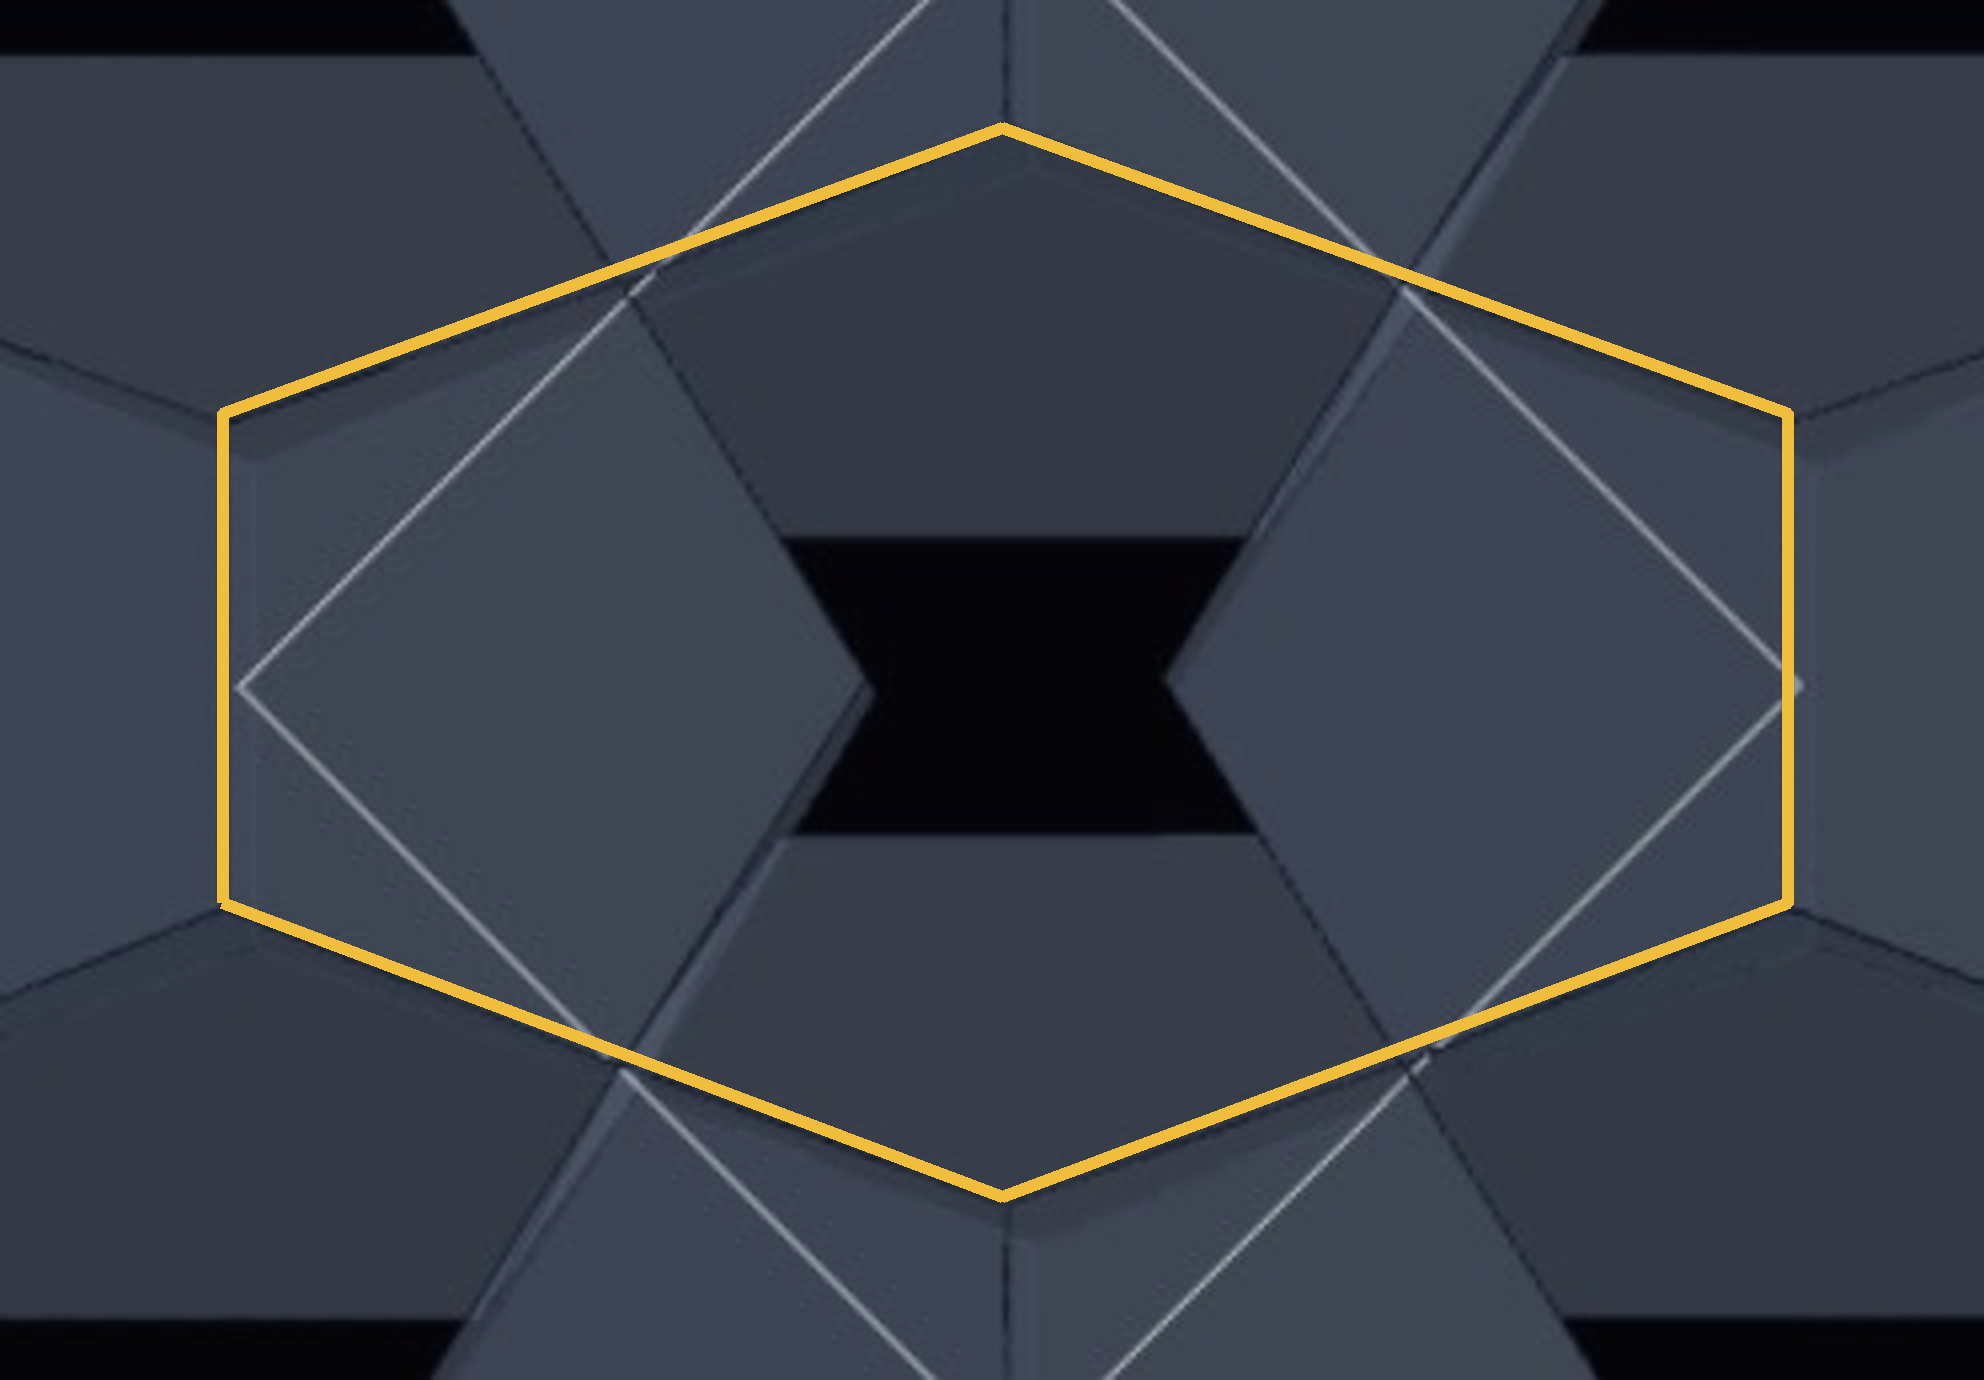
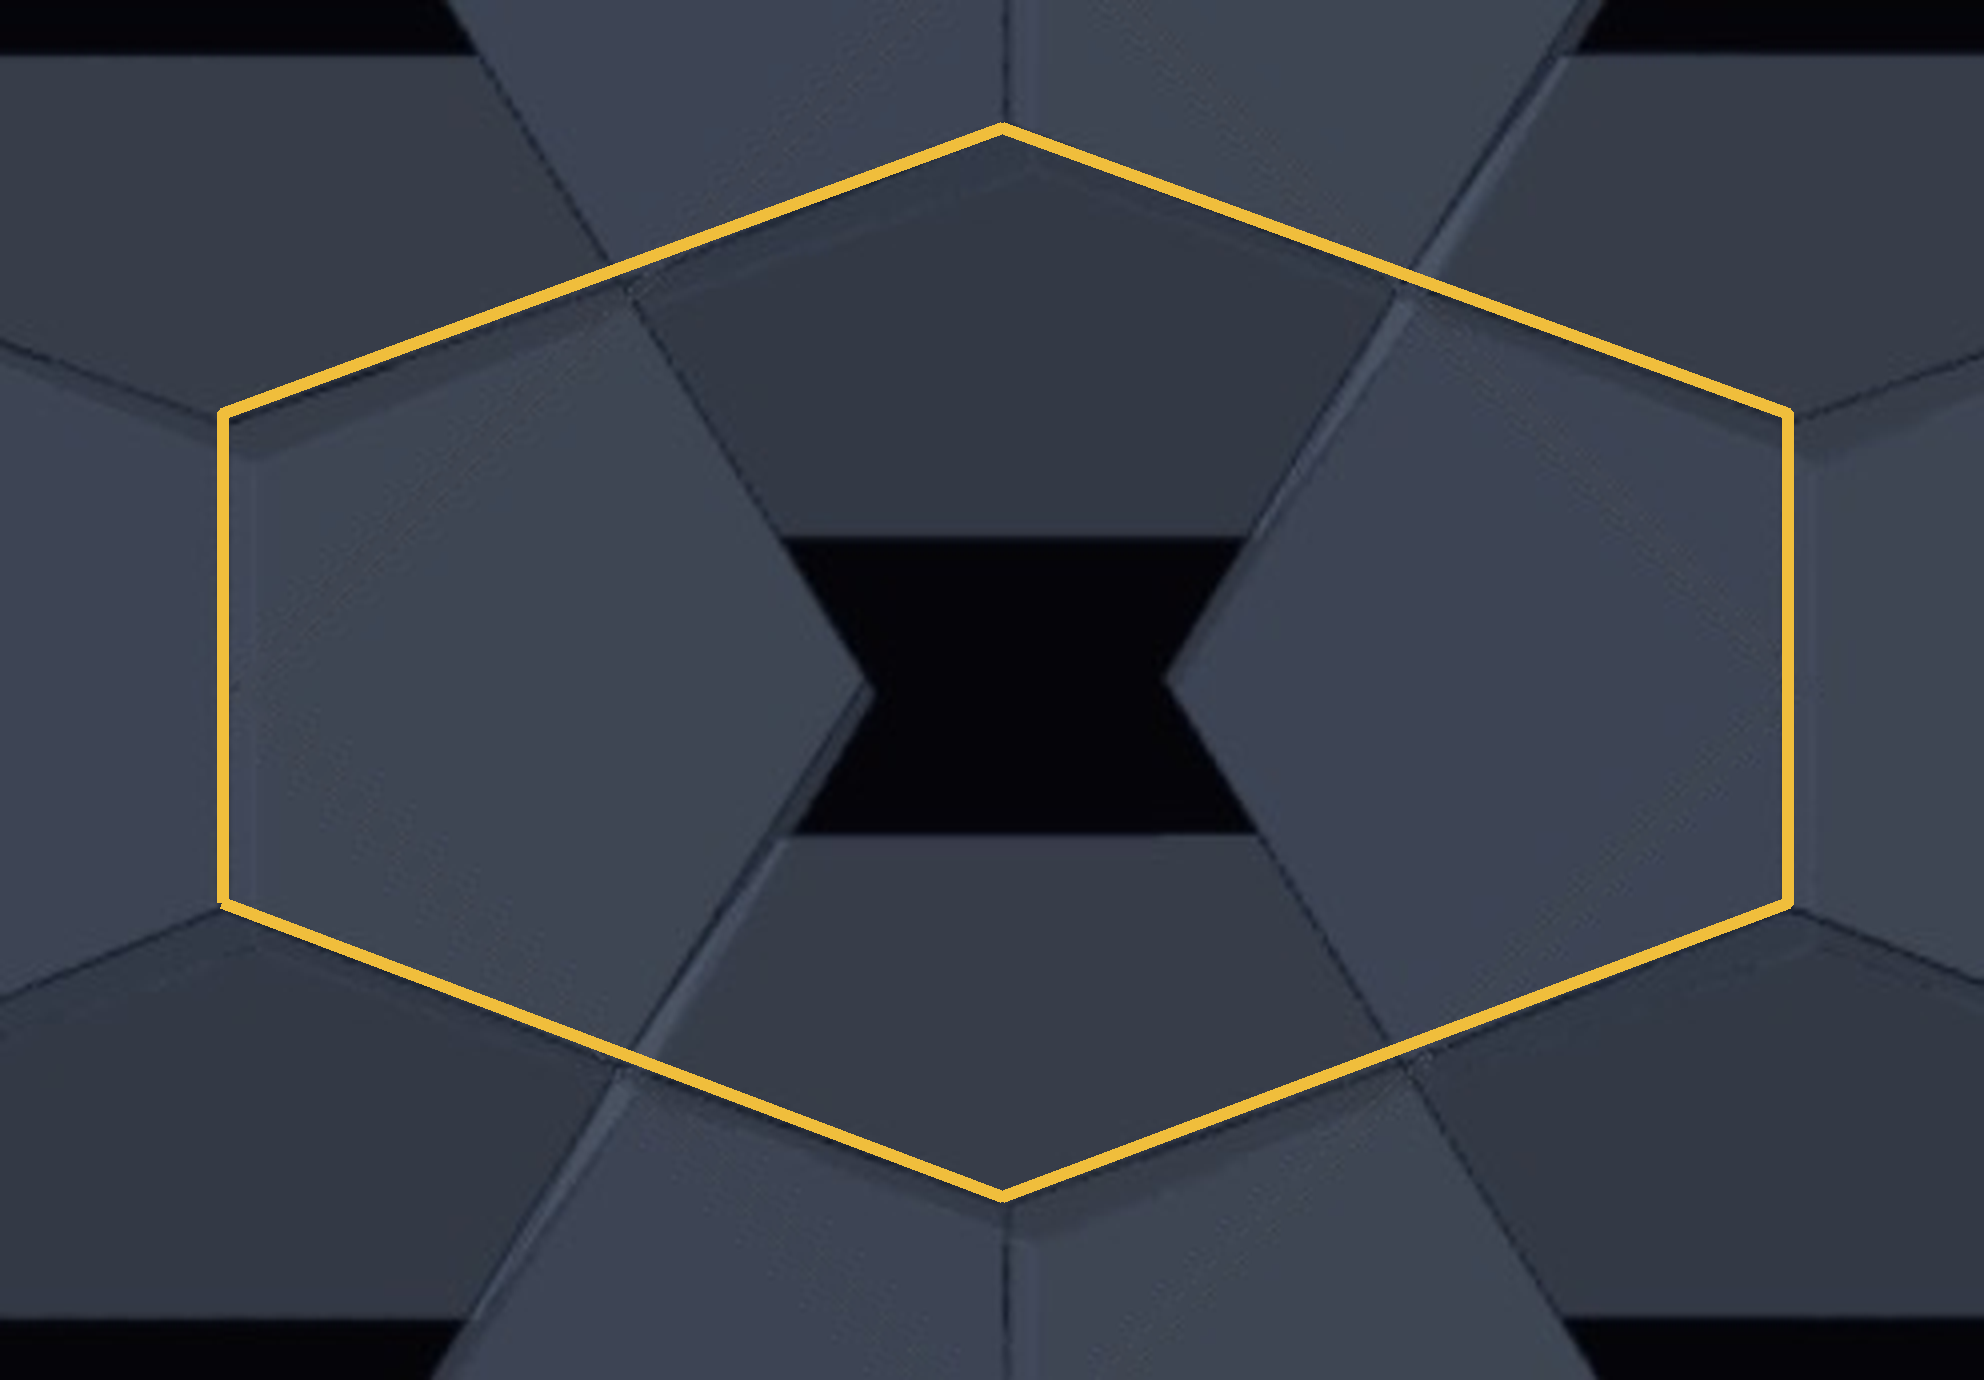
#49: Figure 2 without the app's white cube outlines (DICTO); caption notes the edit

diff --git a/papers/2026-10-22-swept-dodecahedra/paper.src.html b/papers/2026-10-22-swept-dodecahedra/paper.src.html
@@ -22,7 +22,7 @@ The stretched dodecahedron (F11), the long hexagon seen in the dodecahedron laye
 <p class="hook">DICTO looked at a block of dodecahedra and saw a void, a long six-sided space, with two dodecahedra overlapping it on either side. Taken together, the void and the two overlaps became a stretched dodecahedron.</p>
 <p>In the dodecahedron layer of #47 [1], dodecahedra sit on every other cube of a cubic lattice. Looking into the block, DICTO saw a void, a long hexagon in outline, with two dodecahedra overlapping it on either side, and proposed a dodecahedron variant to fit it. The void and the two overlaps, taken together, make one solid: the space a dodecahedron passes through when it slides from one of the two to the other, along the face diagonal of the cube it is built on (Euclid's cube [2]). DICTO had found a first member of this family earlier, also from overlapped dodecahedra: the stretched dodecahedron, the same slide along a cube axis (F11 [3]).</p>
 <figure><div class="figs wide"><img class="mid" src="figures/dicto-view-hexagon.png" alt="DICTO's view into the dodecahedron layer of #47, the long hexagon outlined in gold, the black void at its centre"></div>
-<figcaption><b>Figure 2.</b> Where it started: DICTO's view into the dodecahedron layer of #47 in Kaleidohedra, with the long hexagon he saw outlined in gold. The void (black) lies at its centre, with two dodecahedra overlapping it on either side.</figcaption></figure>
+<figcaption><b>Figure 2.</b> Where it started: DICTO's view into the dodecahedron layer of #47 in Kaleidohedra, with the long hexagon he saw outlined in gold. The void (black) lies at its centre, with two dodecahedra overlapping it on either side. (The app's cube outlines have been removed from the screenshot.)</figcaption></figure>
 
 <h2>2. The main result</h2>
 <p class="hook">Take any solid whose edges are all the same length, such as a dodecahedron. However you slide it, as long as you do not slide it along one of its own edges, every edge of the shape it sweeps comes out one edge-length long.</p>
